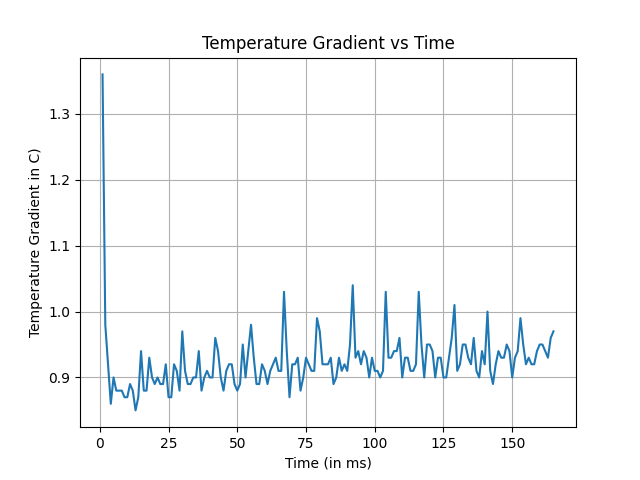
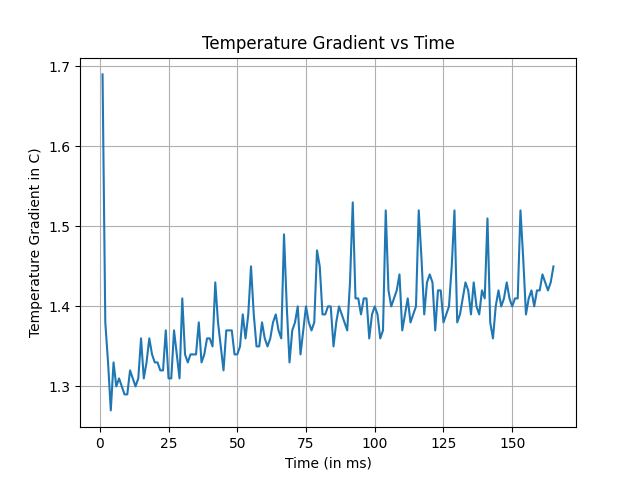
Added Results for 4,16,20 Cores 2.5D LBM

diff --git a/Results/4_16_32_LBM/plot.py b/Results/4_16_32_LBM/plot.py
@@ -41,7 +41,7 @@ for line in file:
 	maxCore_16.append(max(arr[0:16]))
 	maxMem_16.append(max(arr[16:]))
 	gradMem_16.append(max(arr[16:32])-min(arr[16:32]))
-	gradCore_16.append(max(arr[0:4])-min(arr[0:4]))
+	gradCore_16.append(max(arr[0:16])-min(arr[0:16]))
 	time_16.append(count_16)
 	count_16 += 1
 
@@ -64,7 +64,7 @@ for line in file:
 	maxCore_32.append(max(arr[0:32]))
 	maxMem_32.append(max(arr[32:]))
 	gradMem_32.append(max(arr[32:48])-min(arr[32:48]))
-	gradCore_32.append(max(arr[0:4])-min(arr[0:4]))
+	gradCore_32.append(max(arr[0:32])-min(arr[0:32]))
 	time_32.append(count_32)
 	count_32 += 1
 
@@ -73,16 +73,16 @@ file.close()
 directory = ["4_Core","16_Core","32_Core"]
 
 for i in directory:
-	os.mkdir(i)
-	os.mkdir(i+"/Max_Mem_Temperature")
-	os.mkdir(i+"/Max_Core_Temperature")
-	os.mkdir(i+"/Max_Combined_Temperature")
-	os.mkdir(i+"/Max_Core_Temperature_Gradient")
-	os.mkdir(i+"/Max_Mem_Temperature_Gradient")
+	os.makedirs(i, exist_ok=True)
+	os.makedirs(i+"/Max_Mem_Temperature", exist_ok=True)
+	os.makedirs(i+"/Max_Core_Temperature", exist_ok=True)
+	os.makedirs(i+"/Max_Combined_Temperature", exist_ok=True)
+	os.makedirs(i+"/Max_Core_Temperature_Gradient", exist_ok=True)
+	os.makedirs(i+"/Max_Mem_Temperature_Gradient", exist_ok=True)
 
-os.mkdir("4_16_32_Cores")
-os.mkdir("4_16_32_Cores/Max_Mem_Temperature")
-os.mkdir("4_16_32_Cores/Max_Core_Temperature")
+os.makedirs("4_16_32_Cores", exist_ok=True)
+os.makedirs("4_16_32_Cores/Max_Mem_Temperature", exist_ok=True)
+os.makedirs("4_16_32_Cores/Max_Core_Temperature", exist_ok=True)
 
 plt.plot(time_4,maxMem_4)
 plt.ylabel('Max Mem Temperature (in C)')
